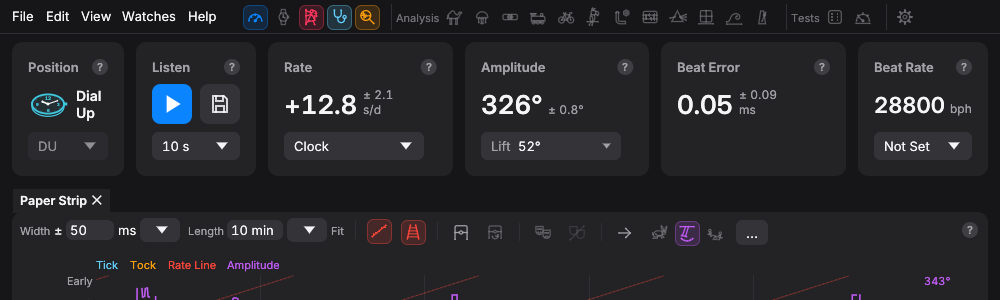
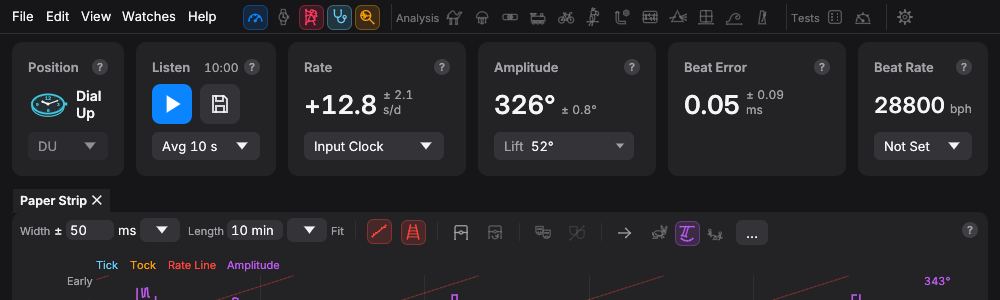
Readings cards: take length on the compact Listen card; Avg and Input Clock words
The compact Listen card is 140 pt and gives the take's length beside its
caption, so the length shows at every width. The compact Average Over
pop-up reads "Avg 10 s", and the compact Rate pop-up reads "Input Clock"
where it fits ("Clock" on the narrowest cards).

Claude-Session: https://claude.ai/code/session_01GsSg6RBnTb5YLpmgbJGamZ

diff --git a/crates/timegrapher-app/src/app.rs b/crates/timegrapher-app/src/app.rs
@@ -825,7 +825,7 @@ const POSITION_W: f32 = 250.0;
 const LISTEN_W: f32 = 190.0;
 const FULL_FIGURE_W: f32 = 250.0;
 const POSITION_COMPACT_W: f32 = 112.0;
-const LISTEN_COMPACT_W: f32 = 120.0;
+const LISTEN_COMPACT_W: f32 = 140.0;
 const BEAT_RATE_COMPACT_W: f32 = 130.0;
 /// The Current Position card's picture, and on a compact card.
 const POSITION_PIC: f32 = 66.0;
@@ -6874,7 +6874,12 @@ impl TimegrapherApp {
         let mut avg = self.average_s;
         egui::ComboBox::from_id_salt("card average")
             .width(row.available_width())
-            .selected_text(fields::duration(avg))
+            // Compact, "Avg" says it isn't a timer.
+            .selected_text(if compact {
+                format!("Avg {}", fields::duration(avg))
+            } else {
+                fields::duration(avg)
+            })
             .show_ui(&mut row, |ui| {
                 for a in AVERAGES {
                     ui.selectable_value(&mut avg, a, fields::duration(a));
@@ -9787,11 +9792,17 @@ impl TimegrapherApp {
                      rect: egui::Rect,
                      caption: &str,
                      help: &[&str],
-                     limits: &[(String, String)]| {
+                     limits: &[(String, String)],
+                     note: Option<&(String, String)>| {
             let mut child = row(ui, rect, caption);
             child.with_layout(egui::Layout::right_to_left(egui::Align::Center), |ui| {
                 ui.spacing_mut().item_spacing.x = 6.0;
                 theme::help(ui, caption, help);
+                // A short fact in plain small text before the "?".
+                if let Some((text, hover)) = note {
+                    ui.label(RichText::new(text).size(12.0).color(pal.text_secondary))
+                        .on_hover_text(hover);
+                }
                 if let Some(first) = limits.first() {
                     let more = if limits.len() > 1 {
                         format!(" +{}", limits.len() - 1)
@@ -9866,7 +9877,27 @@ impl TimegrapherApp {
         let mut slots = vec![(Slot::Position, cards[0].inner)];
         // Listen: its caption here, its buttons and Average Over in the
         // rows under it.
-        title(ui, cards[1].title, "Listen", help::LISTEN, &[]);
+        // A compact Listen card has no room beside its buttons for the
+        // take's length: it goes in the title row, before the "?".
+        let length = lead_compact.then(|| {
+            let length = strip::fmt_time(self.live.as_ref().map_or(0.0, |l| l.duration_s()));
+            (
+                length.clone(),
+                format!(
+                    "{length} · {}: the take's length, the sound heard so far while \
+                     listening, or the whole take opened",
+                    self.state_words()
+                ),
+            )
+        });
+        title(
+            ui,
+            cards[1].title,
+            "Listen",
+            help::LISTEN,
+            &[],
+            length.as_ref(),
+        );
         slots.push((Slot::Listen, cards[1].figure.union(cards[1].controls)));
         let keep_clock = std::cell::Cell::new(false);
         let measured = self.clock_offer();
@@ -9880,7 +9911,7 @@ impl TimegrapherApp {
                 .into_iter()
                 .filter(|f| f.0 != CLOCK_UNKNOWN)
                 .collect();
-            title(ui, cards[2].title, "Rate", help::RATE, &rate_facts);
+            title(ui, cards[2].title, "Rate", help::RATE, &rate_facts, None);
             let unit = match pm {
                 Some(e) if e >= 0.05 => format!("± {e:.1} s/d"),
                 _ => "s/d".to_string(),
@@ -9970,9 +10001,11 @@ impl TimegrapherApp {
             let labelled = widths[2] >= LABELLED_W;
             let mut child = row(ui, cards[2].controls, "rate controls");
             if compact {
+                // "Input Clock" where it fits, else "Clock".
+                let w = child.available_width().min(COMPACT_CONTROL_W);
                 egui::ComboBox::from_id_salt("card clock")
-                    .width(child.available_width().min(COMPACT_CONTROL_W))
-                    .selected_text("Clock")
+                    .width(w)
+                    .selected_text(if w >= 120.0 { "Input Clock" } else { "Clock" })
                     .show_ui(&mut child, |ui| {
                         ui.label(RichText::new(format!("Input Clock {}", clock.value)))
                             .on_hover_text(&clock.hint);
@@ -10031,7 +10064,14 @@ impl TimegrapherApp {
                 .into_iter()
                 .filter(|f| !f.0.starts_with("lift angle "))
                 .collect();
-            title(ui, cards[3].title, "Amplitude", help::AMPLITUDE, &facts);
+            title(
+                ui,
+                cards[3].title,
+                "Amplitude",
+                help::AMPLITUDE,
+                &facts,
+                None,
+            );
             // Whole degrees: a live reading's ± is about a degree, so a
             // decimal would claim more than the beats can say.
             let unit = match r.and_then(|r| r.amplitude_error_deg) {
@@ -10079,6 +10119,7 @@ impl TimegrapherApp {
                 "Beat Error",
                 help::BEAT_ERROR,
                 &reading_limits("Beat Error", caveats, lift_now, beats),
+                None,
             );
             let unit = match be_pm.filter(|_| unlock.is_some()) {
                 Some(e) if e >= 0.005 => format!("± {e:.2} ms"),
@@ -10140,7 +10181,14 @@ impl TimegrapherApp {
                 })
                 .into_iter()
                 .collect();
-            title(ui, cards[5].title, "Beat Rate", help::BEAT_RATE, &other);
+            title(
+                ui,
+                cards[5].title,
+                "Beat Rate",
+                help::BEAT_RATE,
+                &other,
+                None,
+            );
             let how = match (set_bph, heard_bph) {
                 (Some(_), _) => {
                     "Set on this card, so the readings use it rather than finding it \
@@ -19128,8 +19176,8 @@ mod tests {
     }
 
     /// The readings' cards carry what a take needs: the position, Listen
-    /// and Save with the take's length and Average Over on a card of their
-    /// own, the lift angle, and the beat rate's menu with the calibre: in
+    /// and Save with the take's length (at every width) and Average Over
+    /// on a card of their own, the lift angle, and the beat rate's menu with the calibre: in
     /// full where the window has room (1610), one control each where it
     /// hasn't (1000). Nothing says Take, Pause or Resume, and no Replay is
     /// offered.
@@ -19139,11 +19187,12 @@ mod tests {
         let ctx = themed();
         for w in [1000.0, 1610.0] {
             let texts = window_texts(&mut app, &ctx, w);
-            let mut wants = vec!["DU", "Listen", "Lift", "10 s", "Not Set", "Watches", "bph"];
+            let mut wants = vec!["DU", "Listen", "Lift", "Not Set", "Watches", "bph", "0:00"];
             if w > 1000.0 {
                 wants.extend([
                     "Current Position",
                     "Dial Up",
+                    "10 s",
                     "CR",
                     "DU · CH",
                     "0:00",
@@ -19155,7 +19204,9 @@ mod tests {
                     "Default",
                 ]);
             } else {
-                wants.extend(["Position", "Dial", "Up", "Clock"]);
+                // The take's length in the compact Listen card's title row,
+                // and Average Over's pop-up saying what it is.
+                wants.extend(["Position", "Dial", "Up", "Input Clock", "Avg 10 s"]);
             }
             for want in wants {
                 assert!(texts.iter().any(|t| t == want), "{want} at {w}: {texts:?}");

diff --git a/crates/timegrapher-app/src/help.rs b/crates/timegrapher-app/src/help.rs
@@ -96,7 +96,7 @@ pub const POSITION: &[&str] = &[
      edge with the crown up, down, left or right. The picture shows the watch as it lies, \
      the hour that points up at the top; beside it are its name and codes, the common one \
      then Witschi's (CD · 9H). While you listen, the six buttons DU, DD, CU, CD, CL and CR \
-     set it, as keys 1 to 6 do.",
+     set it (on a narrow window, one pop-up of them), as keys 1 to 6 do, one key each.",
     "Looking at a take, or during a Positions Test or a Power Reserve Test, the buttons \
      only show the position: the one at the strip's latest beat on show, or the one the \
      test set. A take's positions can't be changed afterwards.",

diff --git a/docs/app.md b/docs/app.md
@@ -120,11 +120,12 @@ compact form; below about 1320 points every card does, down to the
 800-point minimum. Compact, Current Position is captioned **Position**,
 with a smaller picture, the name on two lines beside it, and one pop-up
 of the six positions (with their keys) instead of the buttons; keys 1 to
-6 still work, and the bars aren't shown. Listen keeps its two icons, its
-take length in the Listen icon's hover, and Average Over's pop-up without
-its label. The reading cards' figures are smaller, with the ± over the
-unit beside them, and each card keeps one control: **Clock** (the input
-clock and Keep in its menu), **Lift 52°** (the same field), none on Beat
+6 still work, and the bars aren't shown. Listen keeps its two icons, gives
+the take's length beside its caption ("Listen 12:48"), and shows Average
+Over's pop-up as **Avg 10 s**. The reading cards' figures are smaller,
+with the ± over the unit beside them, and each card keeps one control:
+**Input Clock** (**Clock** on the narrowest cards), with the input clock
+and Keep in its menu, **Lift 52°** (the same field), none on Beat
 Error, and the **Calibre** pop-up on Beat Rate with the beat rates first
 in its menu. A reading card too narrow for its labels drops them: Input
 Clock goes into the value's hover, and the Calibre pop-up reads "No
